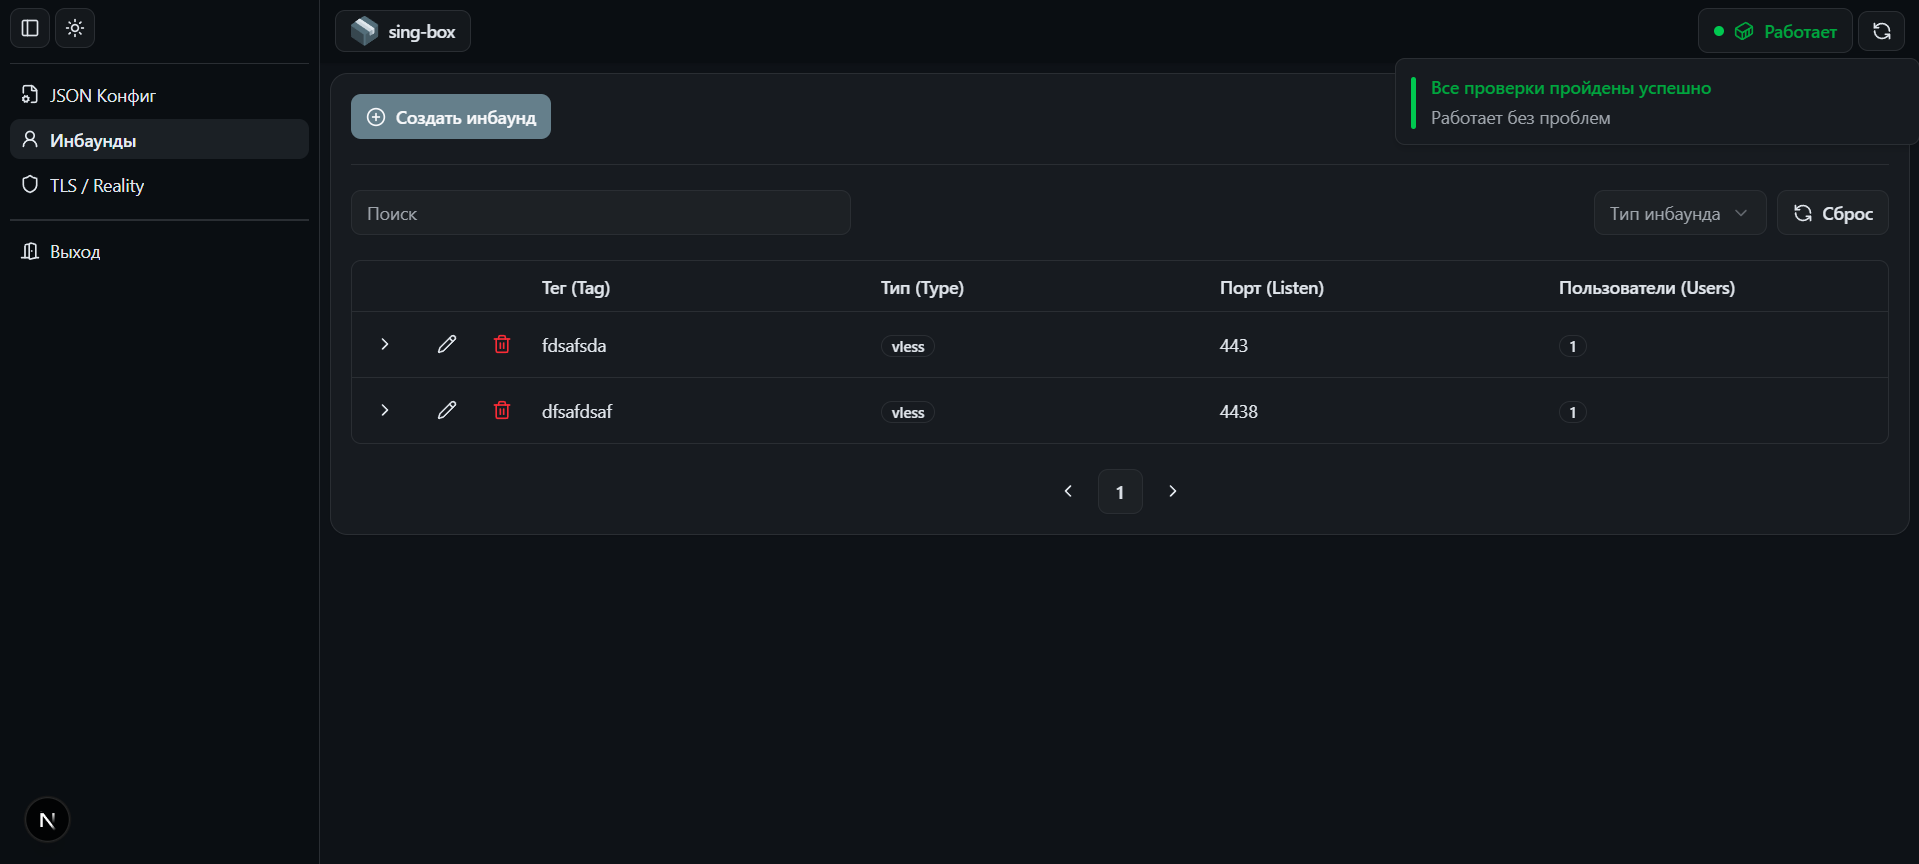
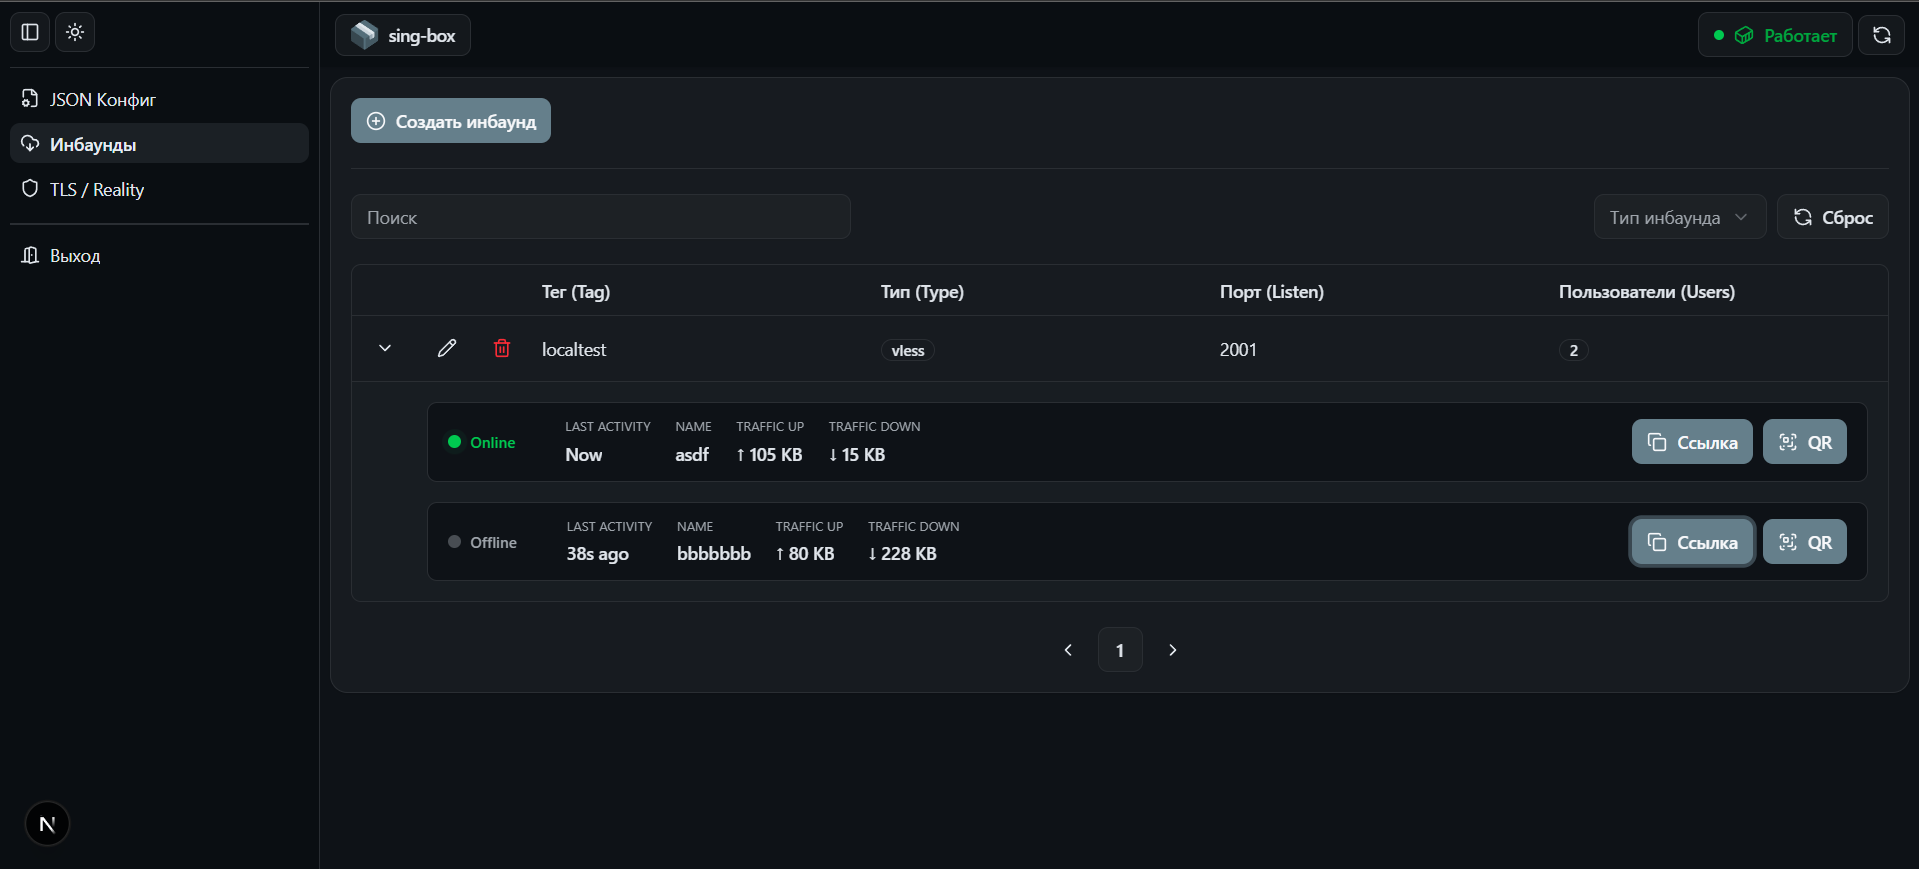
⚠ fix(inbounds table): Одинаковые размеры колонок у юзеров

diff --git a/src/features/sing-box/inbounds/ui/InboundsTable/InboundUserRow/InboundUserRow.tsx b/src/features/sing-box/inbounds/ui/InboundsTable/InboundUserRow/InboundUserRow.tsx
@@ -91,61 +91,23 @@ export function InboundUserRow({
   return (
     <>
       <div className="bg-background rounded-md border px-4 py-3">
-        <div className="flex items-center justify-between gap-4">
-          <div className="flex">
-            <OnlineStatus
-              className="mr-10"
-              isOnline={userStats?.is_online ?? false}
-            />
-            <div className="flex justify-center gap-5">
-              <div className="min-w-0 space-y-1">
-                <div className="text-muted-foreground text-[10px] tracking-wide uppercase">
-                  Last Activity
-                </div>
+        <div className="flex items-start justify-between gap-6">
+          <div className="grid min-w-0 flex-1 grid-cols-5 gap-x-6 gap-y-3">
+            <OnlineStatus isOnline={userStats?.is_online ?? false} />
 
-                <div className="flex items-center gap-3">
-                  <span className="truncate text-sm font-medium">
-                    {userStats?.is_online
-                      ? "Now"
-                      : formatLastSeen(lastActivity)}
-                  </span>
-                </div>
-              </div>
+            <InfoField label="Last Activity">
+              {userStats?.is_online ? "Now" : formatLastSeen(lastActivity)}
+            </InfoField>
 
-              <div className="min-w-0 space-y-1">
-                <div className="text-muted-foreground text-[10px] tracking-wide uppercase">
-                  Name
-                </div>
+            <InfoField label="Name">{name}</InfoField>
 
-                <div className="flex items-center gap-3">
-                  <span className="truncate text-sm font-medium">{name}</span>
-                </div>
-              </div>
+            <InfoField label="Traffic up">
+              ↑ {formatBytes(userStats?.up_traffic_total)}
+            </InfoField>
 
-              <div className="min-w-0 space-y-1">
-                <div className="text-muted-foreground text-[10px] tracking-wide uppercase">
-                  Traffic up
-                </div>
-
-                <div className="flex items-center gap-3">
-                  <span className="truncate text-sm font-medium">
-                    ↑ {formatBytes(userStats?.up_traffic_total)}
-                  </span>
-                </div>
-              </div>
-
-              <div className="min-w-0 space-y-1">
-                <div className="text-muted-foreground text-[10px] tracking-wide uppercase">
-                  Traffic down
-                </div>
-
-                <div className="flex items-center gap-3">
-                  <span className="truncate text-sm font-medium">
-                    ↓ {formatBytes(userStats?.down_traffic_total)}
-                  </span>
-                </div>
-              </div>
-            </div>
+            <InfoField label="Traffic down">
+              ↓ {formatBytes(userStats?.down_traffic_total)}
+            </InfoField>
           </div>
 
           <div className="flex shrink-0 items-center gap-2">
@@ -174,6 +136,26 @@ export function InboundUserRow({
         />
       )}
     </>
+  );
+}
+
+function InfoField({
+  label,
+  children,
+}: {
+  label: string;
+  children: React.ReactNode;
+}) {
+  return (
+    <div className="min-w-0 space-y-1">
+      <div className="text-muted-foreground text-[10px] tracking-wide uppercase">
+        {label}
+      </div>
+
+      <div className="text-sm font-medium wrap-break-word whitespace-normal">
+        {children}
+      </div>
+    </div>
   );
 }
 
